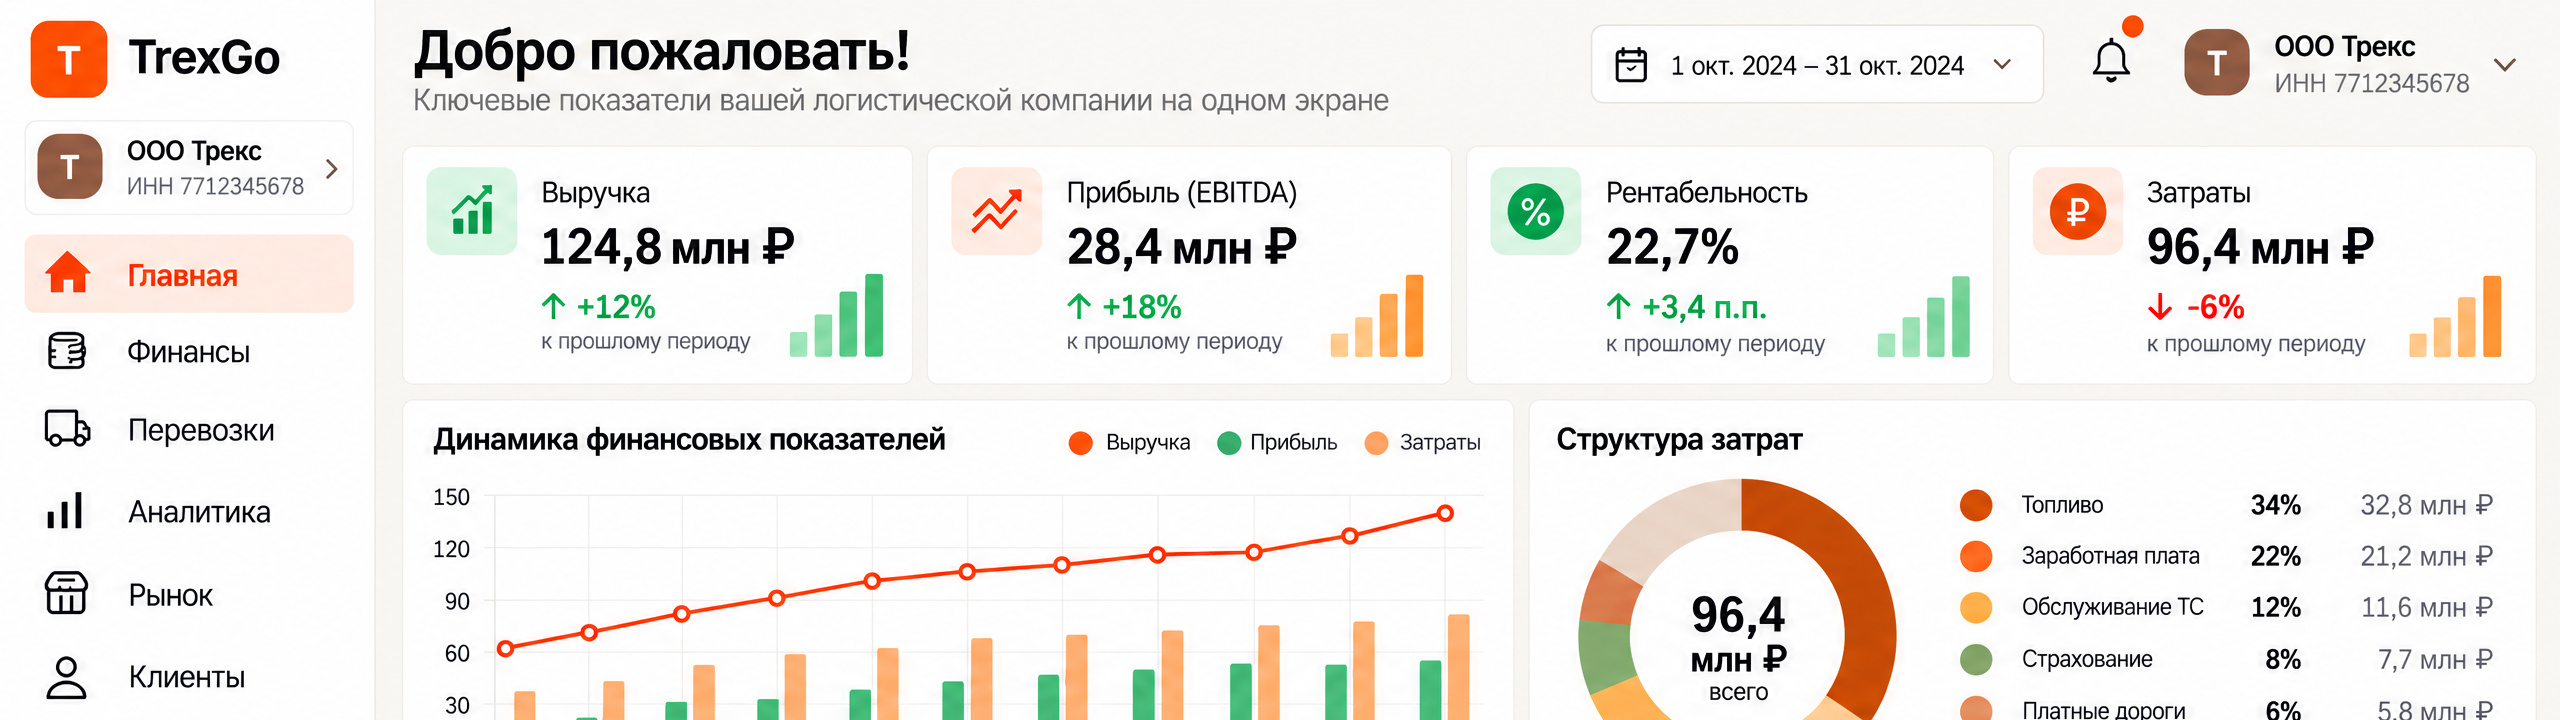
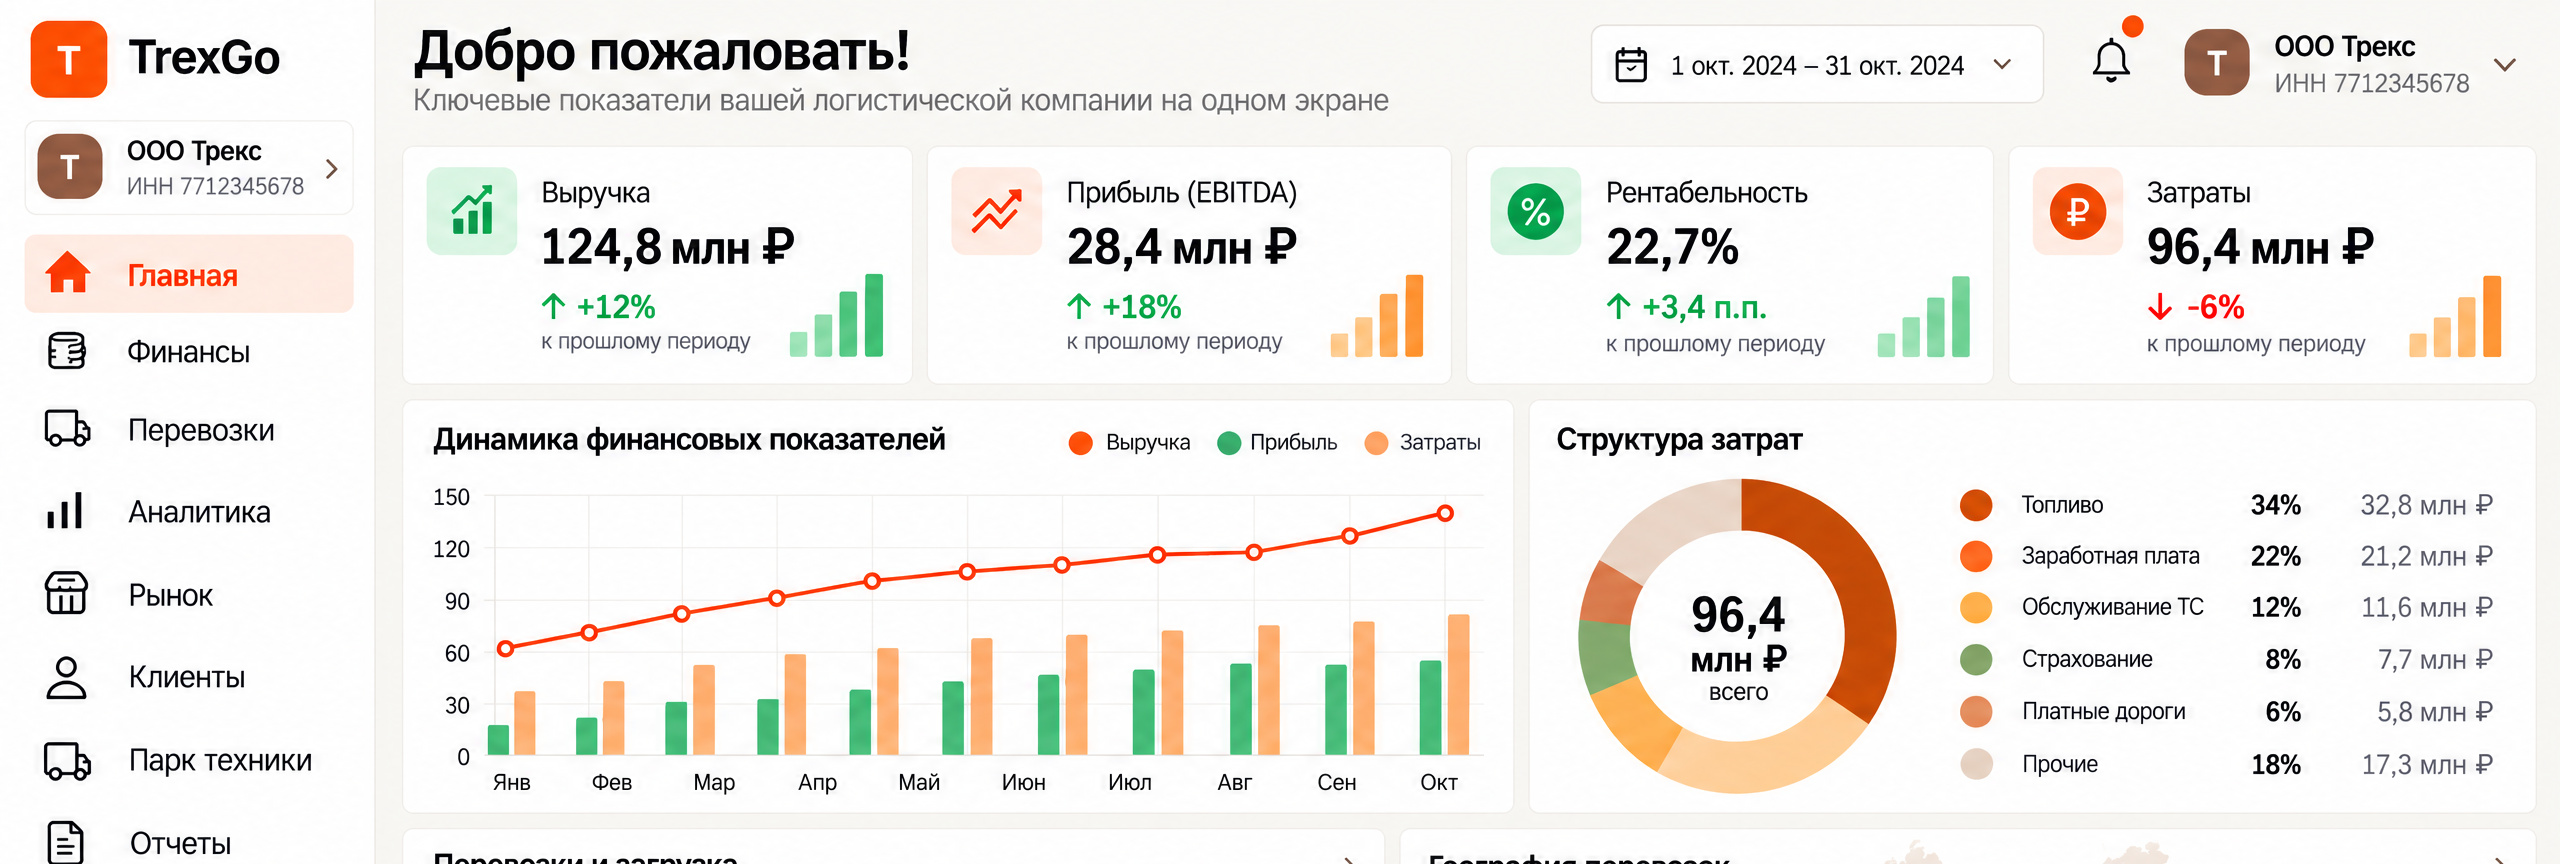
Версия 1: дашборд ниже на 20% и без подписи в подвале.

diff --git a/growth.html b/growth.html
@@ -264,7 +264,7 @@ OTHER DEALINGS IN THE FONT SOFTWARE.
   <div class="shell">
     <div class="section-heading"><p class="eyebrow kicker">Глубокая аналитика и контроль</p><h2 id="analytics-title">Финансовая аналитика<br> для логистических компаний</h2></div>
     <p class="finance-intro">Даём подробную финансовую аналитику, анализ рынка и другие данные, которые нужны логистической компании. По ним можно быстро и эффективно управлять работой.</p>
-    <div class="dash-clip"><img class="dash-photo" src="img/growth-dash.jpg?v=20261020b" alt="Пример финансового дашборда" width="2560" height="720"></div>
+    <div class="dash-clip"><img class="dash-photo" src="img/growth-dash.jpg?v=20261020c" alt="Пример финансового дашборда" width="2560" height="864"></div>
   </div>
 </section>
 
@@ -421,14 +421,14 @@ OTHER DEALINGS IN THE FONT SOFTWARE.
 </section>
 </div>
 </main>
-<footer class="shell"><a class="logo" href="#main">trexgo<span>.</span></a><p id="page-note">Перспективы развития · октябрь 2026</p></footer>
+<footer class="shell"><a class="logo" href="#main">trexgo<span>.</span></a><p id="page-note" hidden></p></footer>
 <script>'use strict';
 const titles = {
   '1': 'TrexGo — этапы развития и новые рынки',
   '2': 'TrexGo — от поиска груза до получения оплаты'
 };
 const notes = {
-  '1': 'Перспективы развития · октябрь 2026',
+  '1': '',
   '2': 'От поиска груза до оплаты · октябрь 2026'
 };
 const v2Only = new Set(['problem','process','v2-orders','manager','etrn','expenses','v2-finance','closing','start']);
@@ -448,7 +448,9 @@ function applyVersion(version, resetHash) {
     button.setAttribute('aria-pressed', button.dataset.setVersion === version ? 'true' : 'false');
   });
   document.title = titles[version];
-  document.querySelector('#page-note').textContent = notes[version];
+  const pageNote = document.querySelector('#page-note');
+  pageNote.textContent = notes[version];
+  pageNote.hidden = !notes[version];
   const url = new URL(location.href);
   if (version === '2') url.searchParams.set('v', '2');
   else url.searchParams.delete('v');
